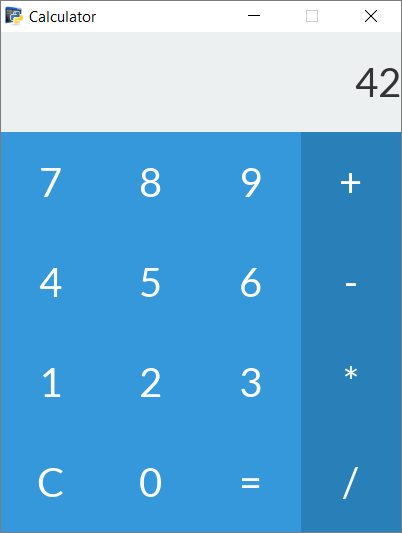
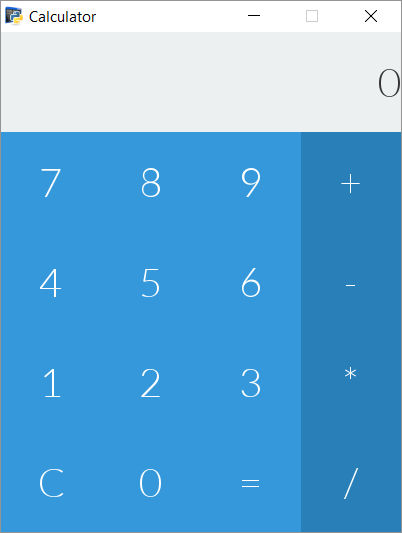
Updated examples

diff --git a/examples/helloworld.py b/examples/helloworld.py
@@ -1,3 +1,4 @@
+# Local testing
 import sys, os
 sys.path.insert(1, os.path.join(sys.path[0], '..'))
 

diff --git a/docs/examples/calculator.rst b/docs/examples/calculator.rst
@@ -21,17 +21,17 @@ We start by creating the layout file. Let's call it ``calculator_layout.lia``.
 These first two lines specify parameters relevant to the window.::
 
 	.title Calculator
-	.resolution 400 500
+	.resolution 400px 500px
 
-The window will thereby have *Calculator* as a title, and have a resolution of 400x500.
+The window will thereby have *Calculator* as a title, and a resolution of 400x500px.
 
-The most basic tool to structure a layout is the grid. Like any other element, we declare a grid by writting the ``grid`` keyword followed by its name, here ``main_grid``.
+The most basic tool to structure a layout is the grid. Like any other element, we declare a grid by writing the ``grid`` keyword followed by its name, here ``main_grid``.
 
 The following two lines are the grid parameters. Here, we only need two rows, the first will take 20% of the space, the other 80%.::
 
-	grid man_grid
-		.rows 0.2 0.8
-		.cols 1.0
+	grid main_grid
+		.rows 20% 80%
+		.cols 100%
 
 The two rows need to be filled with elements.
 
@@ -39,58 +39,76 @@ Let's add a label to show the result of the calculator's computations.::
 
 	label result_label
 		.label 0
+		.text-size 40
 		.align right
+		.text-color dark-grey
 
 The second row will be filled with another grid. This time, it will have 4 rows and 4 columns. The grid itself will be filled with 16 buttons, whose name and label are specified in order.::
 
 	grid pad_grid
-		.rows 0.25 0.25 0.25 0.25
-		.cols 0.25 0.25 0.25 0.25
+		.rows 25% 25% 25% 25%
+		.cols 25% 25% 25% 25%
 
 		button 7
 			.label 7
+			.text-size 40
 		button 8
 			.label 8
+			.text-size 40
 		button 9
 			.label 9
+			.text-size 40
 		button +
 			.label +
-			.released-color belize_hole
-			.pressed-color belize_hole
-			.hovered-color belize_hole
+			.text-size 40
+			.released-color belize-hole
+			.pressed-color belize-hole
+			.hovered-color belize-hole
 		button 4
 			.label 4
+			.text-size 40
 		button 5
 			.label 5
+			.text-size 40
 		button 6
 			.label 6
+			.text-size 40
 		button -
 			.label -
-			.released-color belize_hole
-			.pressed-color belize_hole
-			.hovered-color belize_hole
+			.text-size 40
+			.released-color belize-hole
+			.pressed-color belize-hole
+			.hovered-color belize-hole
 		button 1
 			.label 1
+			.text-size 40
 		button 2
 			.label 2
+			.text-size 40
 		button 3
 			.label 3
+			.text-size 40
 		button *
 			.label *
-			.released-color belize_hole
-			.pressed-color belize_hole
-			.hovered-color belize_hole
+			.text-size 40
+			.released-color belize-hole
+			.pressed-color belize-hole
+			.hovered-color belize-hole
 		button clear
 			.label C
+			.text-size 40
 		button 0
 			.label 0
+			.text-size 40
 		button enter
 			.label =
+			.text-size 40
 		button /
 			.label /
-			.released-color belize_hole
-			.pressed-color belize_hole
-			.hovered-color belize_hole
+			.text-size 40
+			.released-color belize-hole
+			.pressed-color belize-hole
+			.hovered-color belize-hole
 
 The layout is already done!
 
@@ -106,7 +124,7 @@ Create the GUI based on the layout file we just created::
 
 	GUI = Antlia("calculator_layout")
 
-For this simple calculator projet, we need to store the expression to evaluate. Here, an ``expression`` list will eventually store two values, and the ``operation`` string will store the type of operation to apply (add, substract, multiply or divide).::
+For this simple calculator projet, we need to store the expression to evaluate. Here, an ``expression`` list will eventually store two values, and the ``operation`` string will store the type of operation to apply (add, subtract, multiply or divide).::
 
 	expression = [0]
 	operation = None
@@ -201,11 +219,14 @@ Full code
 
 Here is the full Python script::
 
+import sys, os
+sys.path.insert(1, os.path.join(sys.path[0], '..'))
+
 	from antlia import *
 	import time as ti
 
 	# Create a GUI based on a layout file and a style file
-	GUI = Antlia("calculator_layout")
+	GUI = Antlia("examples/calculator_layout")
 
 	# Store the expression to be calculated
 	expression = [0]
@@ -285,61 +306,79 @@ Here is the full Python script::
 And the layout file::
 
 	.title Calculator
-	.resolution 400 500
+	.resolution 400px 500px
 
 	grid main_grid
-		.rows 0.2 0.8
-		.cols 1.0
+		.rows 20% 80%
+		.cols 100%
 
 		label result_label
 			.label 0
+			.text-size 40
 			.align right
+			.text-color dark-grey
 
 		grid pad_grid
-			.rows 0.25 0.25 0.25 0.25
-			.cols 0.25 0.25 0.25 0.25
+			.rows 25% 25% 25% 25%
+			.cols 25% 25% 25% 25%
 
 			button 7
 				.label 7
+				.text-size 40
 			button 8
 				.label 8
+				.text-size 40
 			button 9
 				.label 9
+				.text-size 40
 			button +
 				.label +
-				.released-color belize_hole
-				.pressed-color belize_hole
-				.hovered-color belize_hole
+				.text-size 40
+				.released-color belize-hole
+				.pressed-color belize-hole
+				.hovered-color belize-hole
 			button 4
 				.label 4
+				.text-size 40
 			button 5
 				.label 5
+				.text-size 40
 			button 6
 				.label 6
+				.text-size 40
 			button -
 				.label -
-				.released-color belize_hole
-				.pressed-color belize_hole
-				.hovered-color belize_hole
+				.text-size 40
+				.released-color belize-hole
+				.pressed-color belize-hole
+				.hovered-color belize-hole
 			button 1
 				.label 1
+				.text-size 40
 			button 2
 				.label 2
+				.text-size 40
 			button 3
 				.label 3
+				.text-size 40
 			button *
 				.label *
-				.released-color belize_hole
-				.pressed-color belize_hole
-				.hovered-color belize_hole
+				.text-size 40
+				.released-color belize-hole
+				.pressed-color belize-hole
+				.hovered-color belize-hole
 			button clear
 				.label C
+				.text-size 40
 			button 0
 				.label 0
+				.text-size 40
 			button enter
 				.label =
+				.text-size 40
 			button /
 				.label /
-				.released-color belize_hole
-				.pressed-color belize_hole
-				.hovered-color belize_hole
+				.text-size 40
+				.released-color belize-hole
+				.pressed-color belize-hole
+				.hovered-color belize-hole

diff --git a/docs/examples/helloworld.rst b/docs/examples/helloworld.rst
@@ -3,7 +3,7 @@
 Hello World!
 =================
 
-This very basic example demonstrates the simplicity of making GUI with Antlia.
+This very basic example demonstrates how simple it is to get started with Antlia.
 
 The goal here is to show a button that, once clicked, will change the text displayed by a label next to it.
 
@@ -24,22 +24,26 @@ Even though this layout file has a ``.lia`` extension, only its name has to be p
 
 Open the ``helloworld_layout.lia`` file, and write the following lines::
 
-	.title Hello
-	.resolution 600 200
+	.title Hello World
+	.resolution 600px 200px
 
 	grid main_grid
-		.rows 1.0
-		.cols 0.5 0.5
+		.rows 100%
+		.cols 50% 50%
 
 		button hello_button
 			.label Hello
+			.text-size 45
+
 		label hello_label
 			.label No
+			.text-size 45
 			.align center
+			.text-color dark-grey
 
-The structure of this file is quite easy to understand. The elements composing the GUI are declared by their names, and some attributes starting with ``.`` can then be specified.
+The structure of this file is quite easy to understand. The **elements** composing the GUI are declared by their names, and some **attributes** starting with ``.`` are given in the following lines.
 
-The first attributes are linked to the window.
+The attributes specified at the beginning of the layout file are relevant to the window.
 
 Back to the Python script, it is time to define the button's handler.::
 
@@ -74,7 +78,7 @@ The full Python script used for this example is given below.::
 	import time as ti
 
 	# Create a GUI based on a layout file
-	GUI = Antlia("ehelloworld_layout")
+	GUI = Antlia("helloworld_layout")
 
 	# Define a handler for the button
 	def buttonClickHandler():
